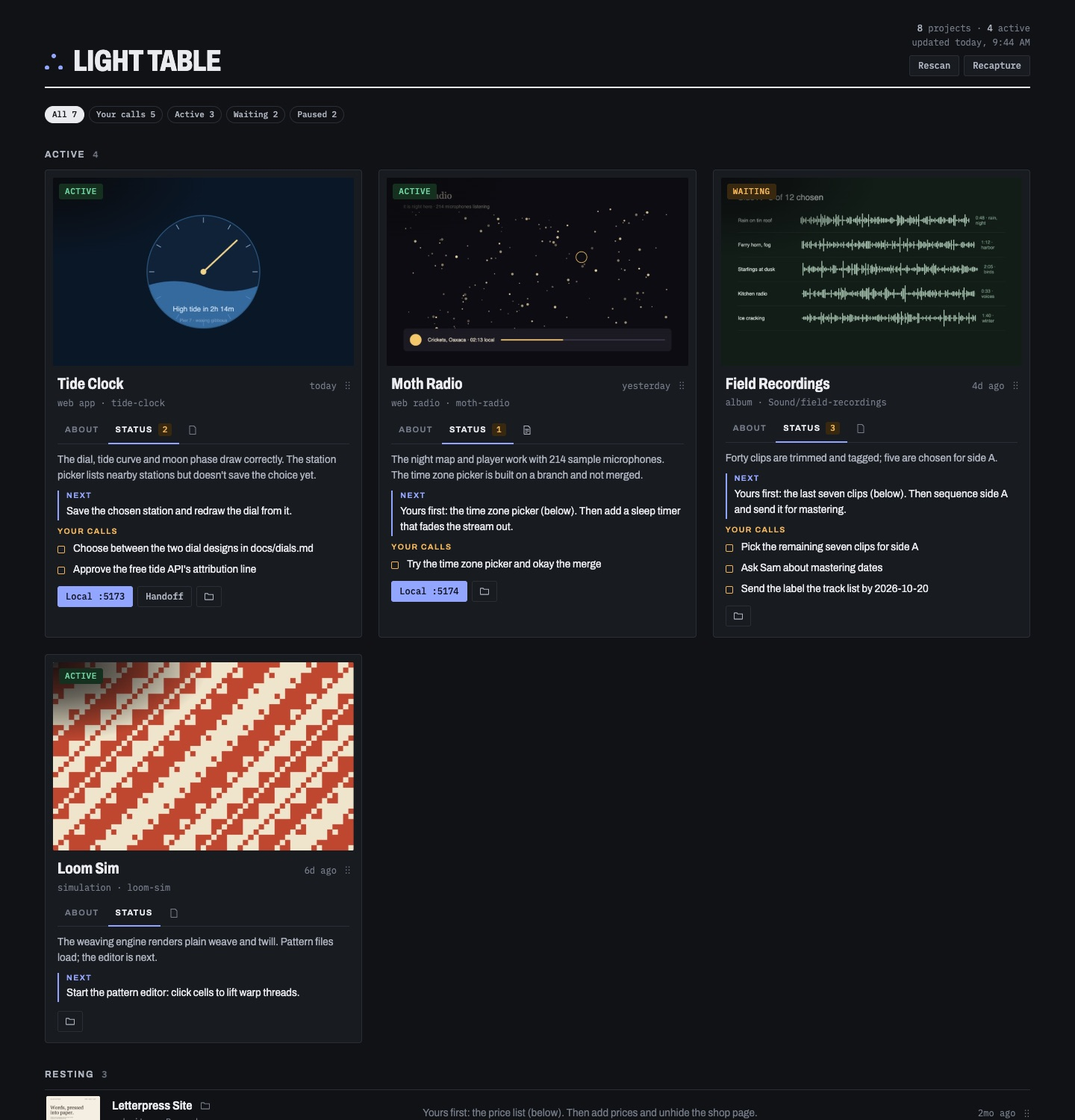
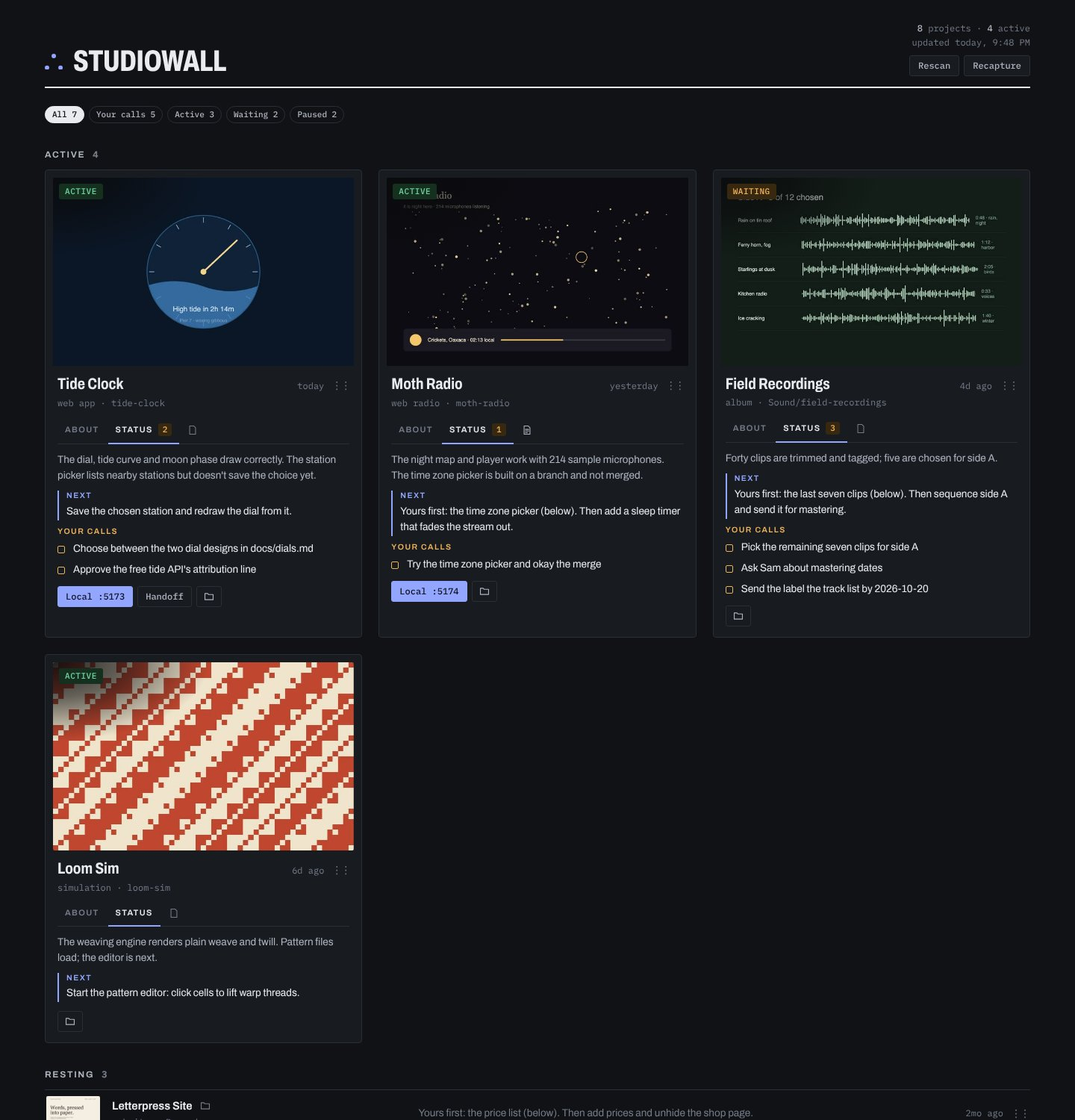
Rename the product's wording to StudioWall (#4)
User-facing text now says StudioWall: README, CONTRIBUTING, board title
and page title, the panel's collapsed label and toasts, skill
descriptions, docs, demo config, issue form, plugin descriptions, video
recording notes and script comments. The README screenshot and social
preview are re-rendered from the demo board.

Identifiers stay as they are so installs and the nightly sync keep
working: the repo, folders and file names, plugin and skill names
(light-table, light-table-panel, light-table-*), ~/.light-table,
$LIGHT_TABLE_HOME and com.lighttable.sweep. The README says once that
the repo and commands keep the earlier name.

Claude-Session: https://claude.ai/code/session_018Gaag4jXjMHFSGPjgTJyvV

diff --git a/claude/panel/hooks/register.tsx b/claude/panel/hooks/register.tsx
@@ -3,7 +3,7 @@ import type { Register } from 'claude-code'
 
 import type { Project, ServerState } from '../types'
 
-// Light Table's resolved settings, as core/config.py prints them.
+// StudioWall's resolved settings, as core/config.py prints them.
 type Table = { core: string; home: string; record: string; root: string | null; port: number; boardUrl: string }
 
 const project = atom({ plugin: 'light-table-panel', key: 'project' } as const, null)
@@ -116,7 +116,7 @@ function restartText(p: Project): string {
 /** The message the Add to board / Update board button sends. */
 function wrapText(): string {
   return (
-    `Update Light Table for this session: run the light-table-wrap-up skill` +
+    `Update StudioWall for this session: run the light-table-wrap-up skill` +
     (table ? ` (table folder: ${table.home}; run its scripts with LIGHT_TABLE_HOME set to that).` : '.')
   )
 }
@@ -129,8 +129,8 @@ function wrapText(): string {
 function sendToClaude($: any, text: string, notice: string) {
   $.ui.toast(notice)
   void Promise.resolve($.prompt.submit({ text }))
-    .then((r: any) => { if (r && r.drop !== undefined) $.ui.toast(`Light Table: that didn't go through (${r.drop ?? 'refused'}).`) })
-    .catch((err: any) => { try { $.ui.toast(`Light Table: couldn't send that to Claude. ${err?.message ?? ''}`.trim()) } catch {} })
+    .then((r: any) => { if (r && r.drop !== undefined) $.ui.toast(`StudioWall: that didn't go through (${r.drop ?? 'refused'}).`) })
+    .catch((err: any) => { try { $.ui.toast(`StudioWall: couldn't send that to Claude. ${err?.message ?? ''}`.trim()) } catch {} })
 }
 
 export const register: Register = (on, options) => {
@@ -207,25 +207,25 @@ export const register: Register = (on, options) => {
     const collapsed = await read($, isCollapsed)
 
     const openBoard = async () => {
-      $.ui.toast('Opening Light Table…')
+      $.ui.toast('Opening StudioWall…')
       try {
         if (!table) table = await loadTable($)
         if (!table) {
-          $.ui.toast('Light Table isn’t set up yet. Ask: “set up Light Table”.')
+          $.ui.toast('StudioWall isn’t set up yet. Ask: “set up StudioWall”.')
           return
         }
         // open.py rebuilds the page, starts its server if needed and opens the browser.
         const r = await $.process.run(['/usr/bin/python3', `${table.core}/open.py`], { timeoutMs: 90_000, env: { LIGHT_TABLE_HOME: table.home } })
-        if (r.exitCode !== 0) $.ui.toast(`Light Table: ${(r.stderr || r.stdout).trim().split('\n').pop() || 'the board didn’t open.'}`)
+        if (r.exitCode !== 0) $.ui.toast(`StudioWall: ${(r.stderr || r.stdout).trim().split('\n').pop() || 'the board didn’t open.'}`)
       } catch (err: any) {
-        $.ui.toast(`Light Table: couldn't open the board. ${err?.message ?? ''}`.trim())
+        $.ui.toast(`StudioWall: couldn't open the board. ${err?.message ?? ''}`.trim())
       }
     }
     const openThing = async (what: string, label: string) => {
       try {
         await $.process.run(['/usr/bin/open', what])
       } catch (err: any) {
-        $.ui.toast(`Light Table: couldn't open ${label}. ${err?.message ?? ''}`.trim())
+        $.ui.toast(`StudioWall: couldn't open ${label}. ${err?.message ?? ''}`.trim())
       }
     }
     // One button per way in, as on the board: App, Local (starts a down server first), Live,
@@ -263,7 +263,7 @@ export const register: Register = (on, options) => {
           return openThing(url, url)
         }
       }
-      $.ui.toast(`Light Table: ${cur.name}'s server didn't come up; the page wasn't opened.`)
+      $.ui.toast(`StudioWall: ${cur.name}'s server didn't come up; the page wasn't opened.`)
     }
     const openLive = async () => {
       const cur = await read($, project)
@@ -271,7 +271,7 @@ export const register: Register = (on, options) => {
     }
     const wrap = async () => {
       const cur = await read($, project)
-      sendToClaude($, wrapText(), cur ? `Updating ${cur.name} on Light Table…` : 'Adding this folder to Light Table…')
+      sendToClaude($, wrapText(), cur ? `Updating ${cur.name} on StudioWall…` : 'Adding this folder to StudioWall…')
     }
 
     // Draw this row, then whatever other plugins put above the prompt underneath,
@@ -298,7 +298,7 @@ export const register: Register = (on, options) => {
     if (collapsed) {
       return stack(
         <Box flexDirection="row" gap={1}>
-          <Button key="expand" label={"∴ Light Table"} plain dimColor onPress={() => update($, isCollapsed, () => false)} />
+          <Button key="expand" label={"∴ StudioWall"} plain dimColor onPress={() => update($, isCollapsed, () => false)} />
         </Box>
       )
     }

diff --git a/core/template.html b/core/template.html
@@ -3,7 +3,7 @@
 <head>
 <meta charset="utf-8">
 <meta name="viewport" content="width=device-width, initial-scale=1, viewport-fit=cover">
-<title>Light Table</title>
+<title>StudioWall</title>
 <link rel="icon" href="/favicon.ico?v=4" sizes="32x32 64x64">
 <link rel="icon" type="image/png" sizes="32x32" href="/favicon-32.png?v=4">
 <link rel="icon" type="image/svg+xml" href="/favicon.svg?v=4">
@@ -289,7 +289,7 @@ a.folder-sm { display: inline-block; }
 <body>
 <div class="wrap">
   <header>
-    <div class="mark"><svg class="glyph" viewBox="13.4 15.4 37.2 33.4" aria-hidden="true"><g fill="currentColor"><circle cx="32" cy="20" r="4.6"/><circle cx="18" cy="44.2" r="4.6"/><circle cx="46" cy="44.2" r="4.6"/></g></svg><h1 id="board-title">Light Table</h1></div>
+    <div class="mark"><svg class="glyph" viewBox="13.4 15.4 37.2 33.4" aria-hidden="true"><g fill="currentColor"><circle cx="32" cy="20" r="4.6"/><circle cx="18" cy="44.2" r="4.6"/><circle cx="46" cy="44.2" r="4.6"/></g></svg><h1 id="board-title">StudioWall</h1></div>
     <div class="head-r">
       <div class="meta" id="meta"></div>
       <div class="actions">

diff --git a/core/config.py b/core/config.py
@@ -1,5 +1,5 @@
 #!/usr/bin/env python3
-"""Where Light Table keeps things, read from one config file.
+"""Where StudioWall keeps things, read from one config file.
 
 Two folders matter:
 
@@ -13,7 +13,7 @@ config.json (see config.example.json):
   root          the folder that holds your projects (required; may be relative
                 to the table folder, and may start with ~)
   port          the board's localhost port (default 8130)
-  title         the name at the top of the board (default "Light Table")
+  title         the name at the top of the board (default "StudioWall")
   chrome        the browser used for auto-captures
   sessions      whose sessions project titles open: "auto", "claude", "codex" or "none"
   skipDirs      extra folder names never scanned (node_modules etc. are built in)
@@ -83,7 +83,7 @@ BOARD_URL = f"http://localhost:{PORT}/"
 def require_root():
     """Stop with a plain message when the table hasn't been set up yet."""
     if not ROOT or not os.path.isdir(ROOT):
-        sys.exit(f"Light Table isn't set up yet: {CONFIG_PATH} needs a \"root\" folder that exists "
+        sys.exit(f"StudioWall isn't set up yet: {CONFIG_PATH} needs a \"root\" folder that exists "
                  f"(found {CFG['root']!r}). Ask your agent to run the light-table setup skill.")
     if not os.path.exists(RECORD):
         sys.exit(f"No record at {RECORD}. Ask your agent to run the light-table setup skill.")

diff --git a/demo/export-site.py b/demo/export-site.py
@@ -24,7 +24,7 @@ BANNER = (
     '<div style="position:sticky;top:0;z-index:50;background:#2b2a33;color:#d8d6e0;'
     'font:13px/1.5 -apple-system,system-ui,sans-serif;text-align:center;padding:8px 16px">'
     "A demo board with invented projects, read-only here. "
-    f'<a href="{GITHUB}#readme" style="color:#c7bdff">Get Light Table for your own work →</a></div>'
+    f'<a href="{GITHUB}#readme" style="color:#c7bdff">Get StudioWall for your own work →</a></div>'
 )
 
 subprocess.run([sys.executable, str(REPO / "core" / "build.py")],

diff --git a/demo/make-screenshots.py b/demo/make-screenshots.py
@@ -1,4 +1,4 @@
-"""Draw invented app screens for the Light Table demo and capture them as PNGs.
+"""Draw invented app screens for the StudioWall demo and capture them as PNGs.
 
   python3 demo/make-screenshots.py demo/projects              redraw every demo project
   python3 demo/make-screenshots.py demo/projects tide-clock   just one

diff --git a/core/build.py b/core/build.py
@@ -286,7 +286,7 @@ def main():
             os.remove(f)
 
     data["built"] = datetime.datetime.now().isoformat(timespec="minutes")
-    data["title"] = CFG.get("title") or "Light Table"
+    data["title"] = CFG.get("title") or "StudioWall"
 
     with open(os.path.join(CORE, "template.html")) as fh:
         html = fh.read()

diff --git a/core/snap.py b/core/snap.py
@@ -1,5 +1,5 @@
 #!/usr/bin/env python3
-"""Capture the current full view of each project for Light Table.
+"""Capture the current full view of each project for StudioWall.
 
 For every project: if its local server is running, capture that (the newest
 work); otherwise capture its live site. Headless Chrome, 1440x900, saved to

diff --git a/skills/light-table-sweep/SKILL.md b/skills/light-table-sweep/SKILL.md
@@ -1,15 +1,15 @@
 ---
 name: light-table-sweep
-description: The Light Table nightly sweep. Use when a scheduled task or the user asks to sweep, refresh or catch up the project board. Finds projects whose files changed since their entry was written, updates just those from their docs and git log, refreshes screenshots, rebuilds the board and runs the optional backup.
+description: The StudioWall nightly sweep. Use when a scheduled task or the user asks to sweep, refresh or catch up the project board. Finds projects whose files changed since their entry was written, updates just those from their docs and git log, refreshes screenshots, rebuilds the board and runs the optional backup.
 ---
 
-# Light Table nightly sweep
+# StudioWall nightly sweep
 
 Bring the record up to date for every project whose files changed since its entry was written, refresh auto-screenshots, rebuild the board, and back up if the owner set that up. This usually runs unattended, so never stop to ask questions: do what the rules allow and report the rest.
 
 ## Find things
 
-The scripts are in `core/`, two folders up from this skill's folder (`<this skill's folder>/../../core`, symlinks resolved). Call it `CORE`; write it out in full in the commands below. Field definitions and rules: `CORE/RECORD.md`. If the Find command says Light Table isn't set up, report that and stop.
+The scripts are in `core/`, two folders up from this skill's folder (`<this skill's folder>/../../core`, symlinks resolved). Call it `CORE`; write it out in full in the commands below. Field definitions and rules: `CORE/RECORD.md`. If the Find command says StudioWall isn't set up, report that and stop.
 
 ## Commands
 
@@ -40,7 +40,7 @@ If the scheduled task's prompt names a table folder, add it as the last argument
    - `calls`: things only the owner can do: decisions, things to try or listen to, people to contact, deadlines. Most important first (the card shows the top three). Written as instructions ("Choose…", "Approve…", "Try…"). Keep a call only while the project's current docs (the handoff's open items, next steps, questions for the owner) still ask for it, or git shows it still pending. Remove calls the docs or commits show are resolved, and calls the current docs no longer mention: don't carry a call forward just because nothing says it's done. Check what git can answer yourself (e.g. "okay the push": is the branch ahead of its remote?).
    - `status`: active / waiting / paused / dormant, as defined in RECORD.md.
    - `lastWorked`: the newest commit or file-change date. `updated`: today. `updatedBy`: `"nightly sweep"`.
-   - For each project in the cloud result (whether or not `sweep.py` flagged it): read its saved `handoff` copy (newest dated entries first) as the latest word on that project. It is newer than the local folder. Update the entry the same way. If the branch isn't merged (`merged: false`), say so in `now` ("Cloud work on branch X, not merged yet") and make the next step or a call "Try branch X and okay the merge". Set `updatedBy: "nightly sweep (cloud)"`, and record what you read in the entry's `cloudSeen`: `{"<branch>": "<head>"}` for each branch reported (keep other branches already there). Never fetch, pull or check out the branch; the copy is all you need. If `wrapup` is false, add the call "Paste the end-of-session block (docs/cloud-wrapup.md in Light Table) into <name>'s CLAUDE.md" (once; remove it when `wrapup` is true). If a project shows an `error`, note it in the report and move on.
+   - For each project in the cloud result (whether or not `sweep.py` flagged it): read its saved `handoff` copy (newest dated entries first) as the latest word on that project. It is newer than the local folder. Update the entry the same way. If the branch isn't merged (`merged: false`), say so in `now` ("Cloud work on branch X, not merged yet") and make the next step or a call "Try branch X and okay the merge". Set `updatedBy: "nightly sweep (cloud)"`, and record what you read in the entry's `cloudSeen`: `{"<branch>": "<head>"}` for each branch reported (keep other branches already there). Never fetch, pull or check out the branch; the copy is all you need. If `wrapup` is false, add the call "Paste the end-of-session block (docs/cloud-wrapup.md in StudioWall) into <name>'s CLAUDE.md" (once; remove it when `wrapup` is true). If a project shows an `error`, note it in the report and move on.
    - If an entry has `"missing": true`, don't delete it: set `now` to "Folder not found at <folder>; moved or renamed?" and add the call "Check where <name> went".
 4. For each folder in `candidates`: read its CLAUDE.md / AGENTS.md / README / HANDOFF if any. If it is a real project (not screenshots, assets, backups or a stray file), add an entry with every field filled as above (server from `.claude/launch.json` if present), `updatedBy: "nightly sweep"`, and no `shelf` or `rank`. Skip things that clearly aren't projects.
 4b. For every entry with no `about` (at most 8 per night, newest work first): write two or three plain sentences on what the project is (not where it stands), from its README / CLAUDE.md / handoff, with a blank line between paragraphs if there are two. Use the saved handoff copy for entries with `"local": false`. Don't invent; mark inferences ` (unconfirmed)`. Don't change any other field of those entries. Leave an existing `about` alone unless the docs show the project changed direction.

diff --git a/README.md b/README.md
@@ -1,10 +1,10 @@
-# Light Table
+# StudioWall
 
 A local board of all your projects, kept current by your coding agent. For Mac, with Claude Code.
 
 **[See the demo board →](https://studiotherefore.github.io/light-table/)** (invented projects, read-only, nothing to install)
 
-![Light Table showing invented example projects: active cards with screenshots, next steps and decisions, and a resting list below](docs/board.jpg)
+![StudioWall showing invented example projects: active cards with screenshots, next steps and decisions, and a resting list below](docs/board.jpg)
 
 One dark page at `http://localhost:8130` answers, at a glance: what's active, where each project stands, what the next step is, which decisions are waiting on you, and what it looks like now.
 
@@ -25,14 +25,14 @@ Everything runs on your Mac. Status lives in one file in your own table folder (
 
 ## What you need
 
-- **A Mac.** Light Table doesn't run on Windows or Linux yet.
+- **A Mac.** StudioWall doesn't run on Windows or Linux yet.
 - **Claude Code**, in the [Claude desktop app](https://claude.ai/download) (its Code tab) or in Terminal.
 - **Python 3.** The first time anything runs `python3`, macOS may offer to install Apple's command line developer tools, a free download of a few minutes. Say yes; that includes Python 3.
 - **Google Chrome**, optional, for automatic screenshots of your projects.
 
 ## Try the demo on your Mac
 
-The [demo board](https://studiotherefore.github.io/light-table/) is online. To run it on your own Mac, with dragging and notes working, open **Terminal** (in Applications → Utilities) and paste these two lines. The first downloads Light Table into your home folder; the second opens the demo in your browser.
+The [demo board](https://studiotherefore.github.io/light-table/) is online. To run it on your own Mac, with dragging and notes working, open **Terminal** (in Applications → Utilities) and paste these two lines. The first downloads StudioWall into your home folder; the second opens the demo in your browser.
 
 ```bash
 git clone https://github.com/studiotherefore/light-table && cd light-table
@@ -41,7 +41,7 @@ LIGHT_TABLE_HOME=demo/table python3 core/open.py
 
 ## Install for Claude Code
 
-1. Put your projects in one folder (subfolders are fine), e.g. `~/Projects`. Light Table only reads them.
+1. Put your projects in one folder (subfolders are fine), e.g. `~/Projects`. StudioWall only reads them.
 2. Open Claude Code in any folder: in the desktop app, open the **Code** tab and start a session.
 3. Type these two lines, one at a time:
 
@@ -50,13 +50,15 @@ LIGHT_TABLE_HOME=demo/table python3 core/open.py
 /plugin install light-table@light-table
 ```
 
-Then ask: **"Set up Light Table."** The agent asks which folder holds your projects, reads each one's README / CLAUDE.md / handoff notes, drafts an entry for each (anything it guessed is marked "unconfirmed"), lets you correct the list, and opens the board.
+(The repo, plugin and commands keep the project's earlier name, `light-table`. It's the same thing.)
+
+Then ask: **"Set up StudioWall."** The agent asks which folder holds your projects, reads each one's README / CLAUDE.md / handoff notes, drafts an entry for each (anything it guessed is marked "unconfirmed"), lets you correct the list, and opens the board.
 
 Optional: **one row of buttons above the prompt** (Open, App, Local, Live, Board, Hide, plus the decisions list). Its Local button starts a stopped dev server. This uses an early-access Claude Code API that still changes. See [claude/panel/README.md](claude/panel/README.md).
 
 ## Codex
 
-**Codex isn't supported yet.** Light Table is being finished for Claude Code first. The `codex/` folder holds early, untested work toward it; don't rely on it.
+**Codex isn't supported yet.** StudioWall is being finished for Claude Code first. The `codex/` folder holds early, untested work toward it; don't rely on it.
 
 ## Everyday use
 
@@ -64,7 +66,7 @@ Optional: **one row of buttons above the prompt** (Open, App, Local, Live, Board
 |---|---|
 | See the board | "Open my board" (or **⠿** in the panel) |
 | Record where a project stands | "Wrap up" (`/light-table:light-table-wrap-up`) |
-| Catch up every project now | "Run the Light Table sweep" (`/light-table:light-table-sweep`) |
+| Catch up every project now | "Run the StudioWall sweep" (`/light-table:light-table-sweep`) |
 | Choose a project's cover image | Name an image in its folder `…current….png` |
 | Keep headless screenshots off for a project | Set `"autoCapture": false` on its entry |
 
@@ -108,4 +110,4 @@ Your table folder (`~/.light-table`, or `$LIGHT_TABLE_HOME`) holds `config.json`
 2. If you set up the nightly sweep, delete its scheduled task in the Claude app (or unload the launchd job, see [schedule/README.md](schedule/README.md)).
 3. Your board and notes are in `~/.light-table`. Delete that folder to remove them too. Your project folders were never changed.
 
-Light Table is a personal project, shared as is under the [MIT license](LICENSE). Issues and ideas are welcome (see [CONTRIBUTING.md](CONTRIBUTING.md)); fixes come as time allows.
+StudioWall is a personal project, shared as is under the [MIT license](LICENSE). Issues and ideas are welcome (see [CONTRIBUTING.md](CONTRIBUTING.md)); fixes come as time allows.

diff --git a/skills/light-table-setup/SKILL.md b/skills/light-table-setup/SKILL.md
@@ -1,11 +1,11 @@
 ---
 name: light-table-setup
-description: Set up Light Table, a local dashboard of all your projects. Use when the user asks to set up, install, start or rebuild their Light Table / project board, or to add the projects in a folder to it for the first time. Scans their projects folder, drafts one entry per project from its docs, writes the record and opens the board.
+description: Set up StudioWall, a local dashboard of all your projects. Use when the user asks to set up, install, start or rebuild their StudioWall / project board, or to add the projects in a folder to it for the first time. Scans their projects folder, drafts one entry per project from its docs, writes the record and opens the board.
 ---
 
-# Set up Light Table
+# Set up StudioWall
 
-Light Table is a local web page (a "board") showing every project in one folder tree: status, next step, decisions waiting on the owner, and a screenshot. One file holds the status of all projects: `projects.json` in the **table folder**. Project folders are only ever read.
+StudioWall is a local web page (a "board") showing every project in one folder tree: status, next step, decisions waiting on the owner, and a screenshot. One file holds the status of all projects: `projects.json` in the **table folder**. Project folders are only ever read.
 
 ## Find the code
 
@@ -41,7 +41,7 @@ Keep the user updates short and plain. Ask questions with your question/choice t
 9. **Screenshots (optional).** If Google Chrome is installed, offer to take first screenshots of projects with a live site or a running local server: `python3 "$CORE/snap.py"` (about a minute; failures just keep no image). Projects where it shows only a loading, login or audio-start screen can get `"autoCapture": false`.
 10. **Open the board.** Run `python3 "$CORE/open.py"`. It builds the page, starts the small local server in the background and opens the board in the browser. If you have your own browser view, you can use `--no-open` and show the printed URL there instead.
 11. **Offer the extras**, in one short message, and set up only what they say yes to:
-   - **Nightly sweep**: keeps entries current every night. Claude desktop app: create a scheduled task (daily, about 11 PM) whose prompt is "Run the light-table-sweep skill." Then tell them to press **Run now** on it once while they're at the computer and choose "Always allow" for each command it asks about (three fixed commands). The approvals stay with the task, so night runs never stop to wait for a prompt nobody sees. After a plugin update, do one more Run now, since the commands' path changes. Everyone else: see `schedule/README.md` in the Light Table code (a launchd job that runs the sweep through `claude -p`).
+   - **Nightly sweep**: keeps entries current every night. Claude desktop app: create a scheduled task (daily, about 11 PM) whose prompt is "Run the light-table-sweep skill." Then tell them to press **Run now** on it once while they're at the computer and choose "Always allow" for each command it asks about (three fixed commands). The approvals stay with the task, so night runs never stop to wait for a prompt nobody sees. After a plugin update, do one more Run now, since the commands' path changes. Everyone else: see `schedule/README.md` in the StudioWall code (a launchd job that runs the sweep through `claude -p`).
    - **Backup**: make the table folder a private Git repo of their own (`git init`, add their remote). The sweep then backs it up nightly with `CORE/backup.sh`. Never create a remote repo for them without asking.
    - **Claude Code buttons** (optional panel above the prompt): see `claude/panel/README.md`.
 12. Finish with two lines: how many projects are on the board, and its address.

diff --git a/docs/cloud-wrapup.md b/docs/cloud-wrapup.md
@@ -2,7 +2,7 @@
 
 Sessions on this Mac don't need this: the panel's Add to board and the nightly sweep already see their work. Sessions that run somewhere else can't. That means cloud sessions, another Claude account, Codex in the cloud, or another machine. Their work only reaches the board through GitHub: the session pushes its handoff and screenshots, and each night `core/cloud.py` reads them (read-only) and updates the card. The card says so if the branch isn't merged yet.
 
-Light Table never writes into project folders, so you paste the block below yourself, once per project, at the end of the project's `CLAUDE.md` (or `AGENTS.md`) in its current repo. If cloud work turns up on a project whose `CLAUDE.md` has no block, the nightly sweep adds a decision to its card asking you to paste it.
+StudioWall never writes into project folders, so you paste the block below yourself, once per project, at the end of the project's `CLAUDE.md` (or `AGENTS.md`) in its current repo. If cloud work turns up on a project whose `CLAUDE.md` has no block, the nightly sweep adds a decision to its card asking you to paste it.
 
 `cloud.py` needs the GitHub CLI (`gh`), signed in with read access to the repos. If a project's current repo isn't its local folder's `origin`, set the entry's `github` field to `"owner/repo"` (see `core/RECORD.md`).
 
@@ -20,7 +20,7 @@ When I say "wrap up", or before a session ends:
    - the single next step;
    - decisions only I can make, short and written as instructions to me. Remove any that are settled.
 2. Say which branch the work is on and whether it's merged into main.
-3. Screenshots for my Light Table board. They all live in `screenshots/` at the top of the repo:
+3. Screenshots for my StudioWall board. They all live in `screenshots/` at the top of the repo:
    - **Mine (the cover):** exactly one file with "current" in its name, `screenshots/<project>-current.png`. When I give you a screenshot and say to make it the current one, save that exact image under that name. Don't retake, crop or edit it. If you can't get at the image file itself, tell me; don't recreate it.
    - **Only one "current":** before saving a new one, rename the old one to the date it was made current (or its last commit date), e.g. `<project>-2026-10-26.png`. Never delete it. If I say "drop the current screenshot", rename it the same way.
    - **Yours:** at the end of a session, if the project has a page you can run here, open its main view in a headless browser at 1440×900 and save the full view (not a detail) as `screenshots/<project>-session.png`. Skip it if it can't run here (a Mac app, say); never commit a blank or error page. Replace the last one; don't keep a series.

diff --git a/skills/light-table-wrap-up/SKILL.md b/skills/light-table-wrap-up/SKILL.md
@@ -1,9 +1,9 @@
 ---
 name: light-table-wrap-up
-description: Wrap up this session for Light Table. Use when the user says "wrap up", "update the board", "record where we are" or presses Add to board. Rewrites this project's entry (now, next step, decisions, status), takes a screenshot of the app, and rebuilds the board.
+description: Wrap up this session for StudioWall. Use when the user says "wrap up", "update the board", "record where we are" or presses Add to board. Rewrites this project's entry (now, next step, decisions, status), takes a screenshot of the app, and rebuilds the board.
 ---
 
-# Wrap up for Light Table
+# Wrap up for StudioWall
 
 Record where this project stands after the session, so the board (and the next session) can pick it up.
 
@@ -11,7 +11,7 @@ Record where this project stands after the session, so the board (and the next s
 
 The scripts are in `core/`, two folders up from this skill's folder (`<this skill's folder>/../../core`, symlinks resolved). Call it `CORE`. Run `python3 "$CORE/config.py"` for the record path (`record`), the table folder (`home`) and the projects root (`root`). Field definitions and rules: `CORE/RECORD.md`.
 
-If the config or record doesn't exist, say Light Table isn't set up and offer the `light-table-setup` skill. Stop there.
+If the config or record doesn't exist, say StudioWall isn't set up and offer the `light-table-setup` skill. Stop there.
 
 **Which entry:** the one whose `folder` (relative to `root`) contains the current working folder; if several do, the longest `folder` wins. If none does, this project is new: add an entry (pick `id`, `name`, `folder` relative to `root`, `kind`, `summary`, `about`), without `shelf` or `rank`.
 
